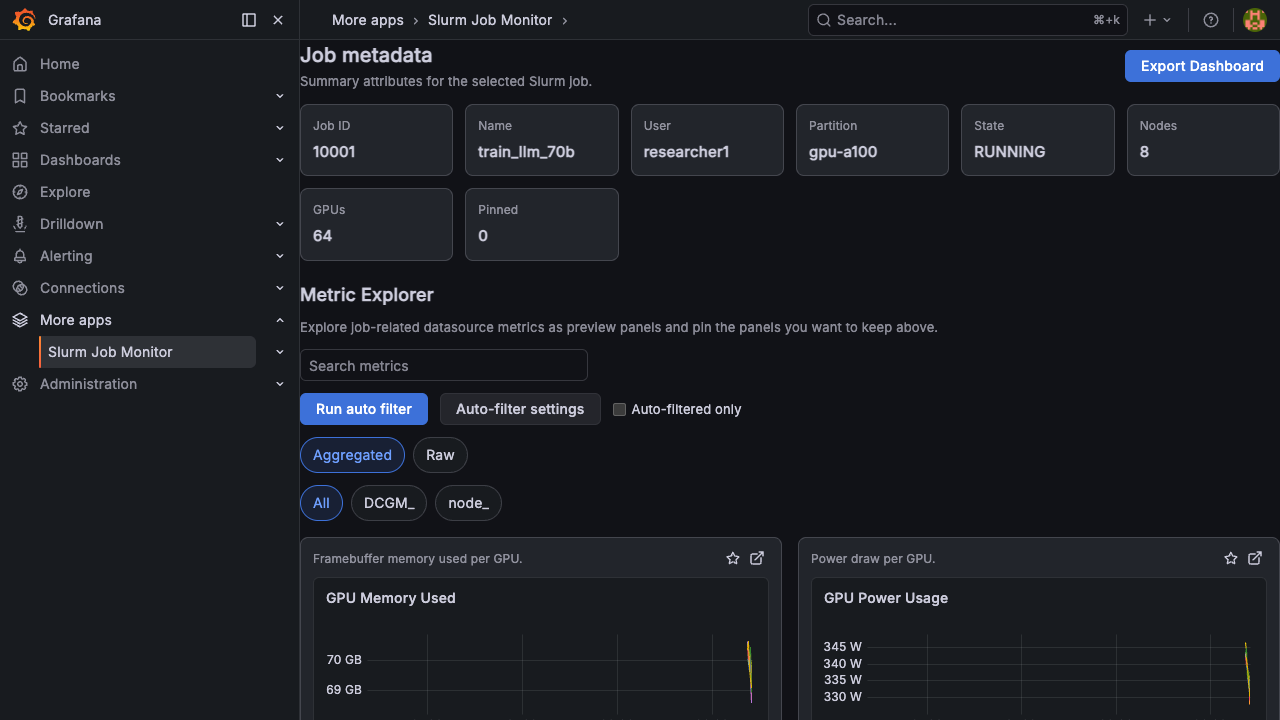
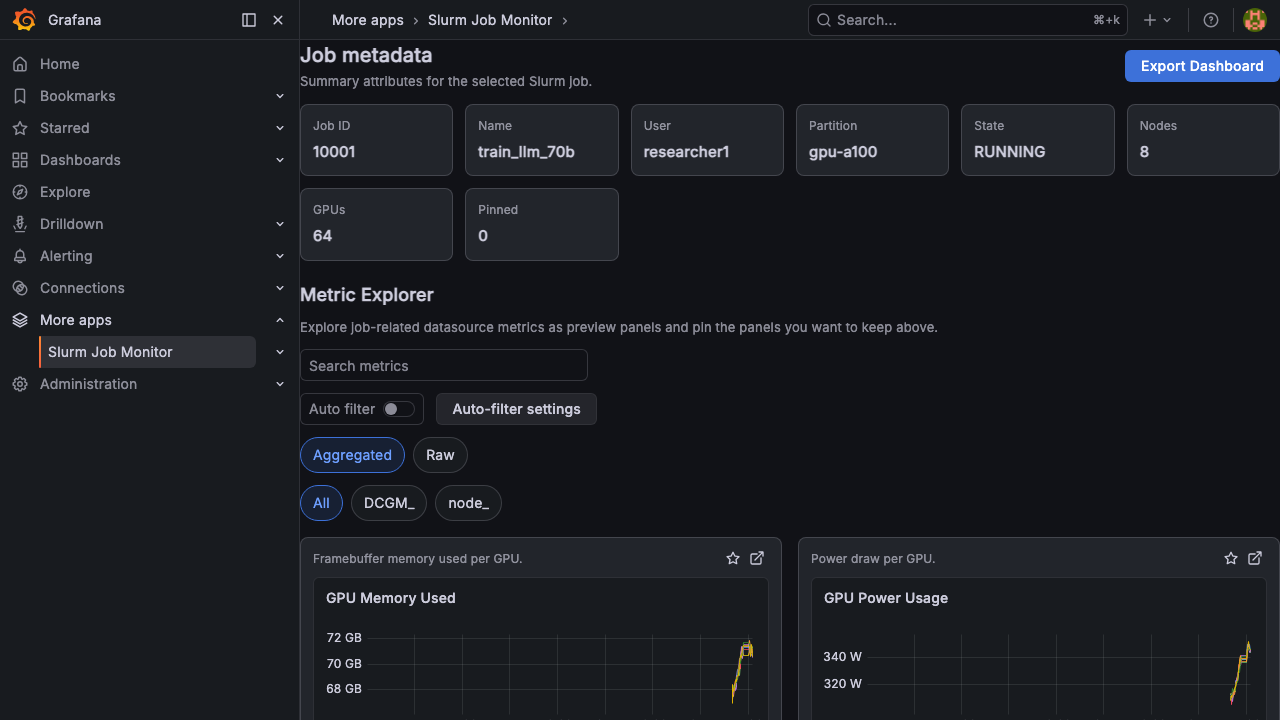
docs: refresh metric explorer screenshots

diff --git a/docs/metric-explorer.md b/docs/metric-explorer.md
@@ -22,10 +22,12 @@ The Auto Filter feature uses the [MetricSifter](https://github.com/yuuki/metrics
 
 ### Running Auto Filter
 
-1. Click **Run auto filter** in the Metric Explorer section
+1. Turn on **Auto filter** in the Metric Explorer section
 2. The plugin sends the job's metric data to the MetricSifter service
 3. MetricSifter analyzes time series for significant changes
-4. Results appear as a filtered set of recommended metrics
+4. If matching metrics are found, the explorer narrows to that filtered metric set
+
+If the request fails or MetricSifter returns no matching metrics, the toggle turns back off and the full metric list remains visible. While the request is running, the toggle is temporarily disabled.
 
 ### Auto Filter Settings
 
@@ -34,16 +36,15 @@ Click **Auto-filter settings** to customize the analysis parameters:
 | Parameter | Description | Default |
 |-----------|-------------|---------|
 | Search Method | Change-point detection algorithm (`pelt`, `binseg`, `bottomup`) | `pelt` |
-| Cost Model | Cost function for segmentation (`l1`, `l2`, `normal`, `rbf`, `linear`) | `rbf` |
+| Cost Model | Cost function for segmentation (`l1`, `l2`, `normal`, `rbf`, `linear`) | `l2` |
 | Penalty | Penalty type (`aic`, `bic`, or numeric value) | `bic` |
-| Penalty Adjust | Penalty adjustment coefficient | `1.0` |
-| Bandwidth | Kernel bandwidth | - |
+| Penalty Adjust | Penalty adjustment coefficient | `2` |
+| Bandwidth | Kernel bandwidth | `2.5` |
 | Segment Selection | Method for selecting segments (`weighted_max`, `max`) | `weighted_max` |
 | nJobs | Number of parallel jobs | `1` |
 
 Toggle **Use custom settings** to switch between default and custom parameters. Custom settings are saved to browser local storage.
-
-Check **Auto-filtered only** to hide all metrics except those selected by the auto filter.
+Changes in the settings panel are applied the next time you turn **Auto filter** on; editing a value does not immediately rerun MetricSifter.
 
 ## Display Controls
 
